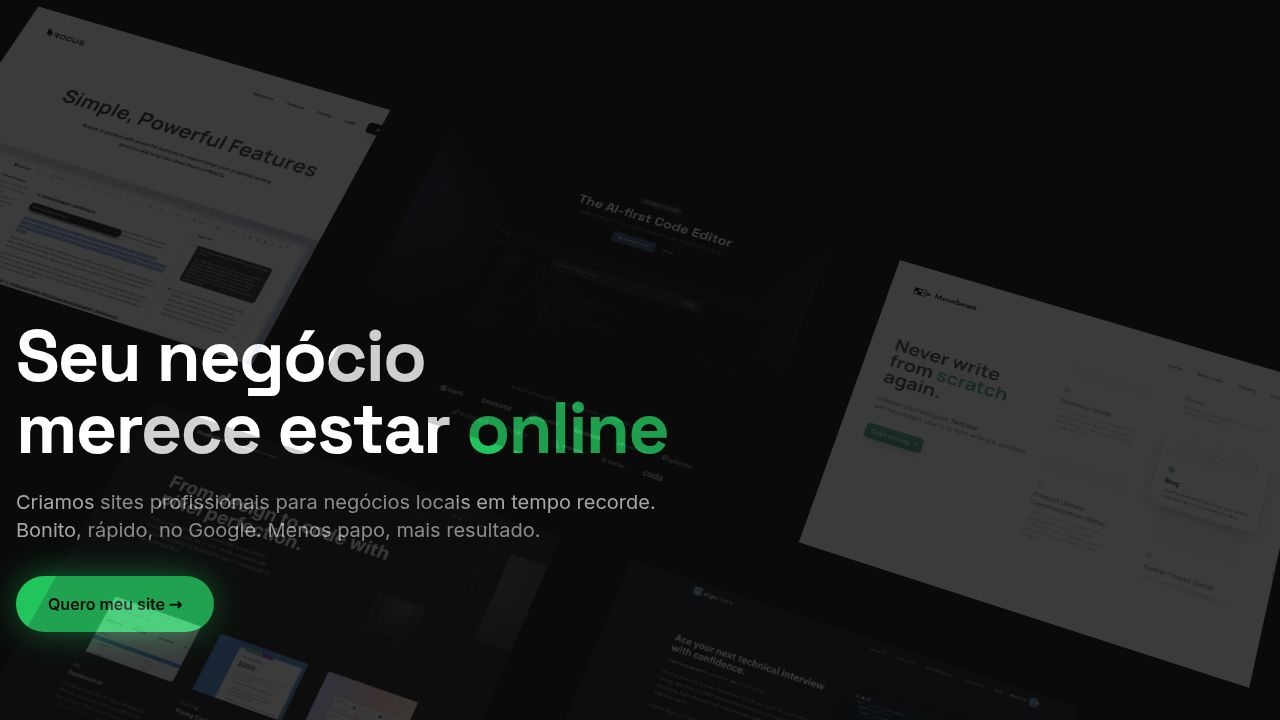
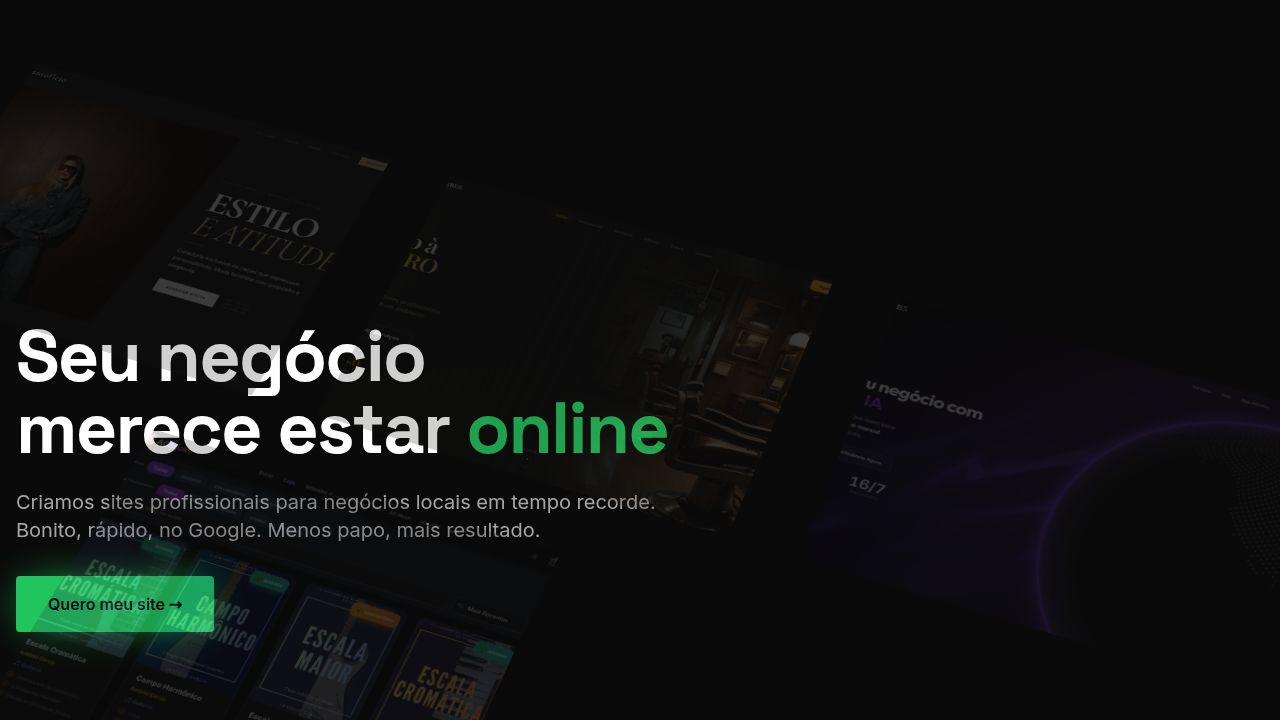
Center hero images and simplify case carousel display
Update HeroParallax component to center images and Portfolio component to reduce carousel items and remove internal image descriptions. Reposition the Pricing section in the home page layout.

Replit-Commit-Author: Agent
Replit-Commit-Session-Id: 8bb3d7d0-edad-495b-b93e-6ee9996748e4
Replit-Commit-Checkpoint-Type: full_checkpoint
Replit-Commit-Event-Id: b6d71455-3e94-4048-9c66-b544ce696ac8
Replit-Commit-Screenshot-Url: https://storage.googleapis.com/screenshot-production-us-central1/bfa69074-021f-4ca3-9f4c-341e73838d18/8bb3d7d0-edad-495b-b93e-6ee9996748e4/GnuSjnN
Replit-Helium-Checkpoint-Created: true

diff --git a/artifacts/ag-labs/src/components/Portfolio.tsx b/artifacts/ag-labs/src/components/Portfolio.tsx
@@ -13,7 +13,6 @@ const cases = [
     sliderName: 'agente-ia',
     tag: 'IA / SaaS',
     title: 'Agente de IA Consultivo',
-    desc: 'Plataforma com agente de IA que responde dúvidas, qualifica leads e agenda reuniões automaticamente — 24h por dia, sem intervenção humana.',
     result: '98% de resolução automática',
     link: 'https://rag.aglabs.api.br/',
     img: `${base}agente%20ia.png`,
@@ -22,7 +21,6 @@ const cases = [
     sliderName: 'barber-pro',
     tag: 'SaaS B2B',
     title: 'Barber Pro',
-    desc: 'Plataforma SaaS para barbearias com agendamento online, fila de espera, gestão de clientes e painel de relatórios. Escalável para franquias.',
     result: '47 barbearias ativas',
     link: 'https://barber.aglabs.ia.br/',
     img: `${base}barber%20pro.png`,
@@ -31,7 +29,6 @@ const cases = [
     sliderName: 'boutique',
     tag: 'E-commerce',
     title: 'Boutique Santo Ofício',
-    desc: 'Loja de roupas premium com lookbook interativo, filtros por coleção e checkout com integração de pagamento. Experiência mobile-first.',
     result: '+85% conversão mobile',
     link: 'https://santoficio-rv.pages.dev/',
     img: `${base}boutique%20de%20roupas.png`,
@@ -40,25 +37,14 @@ const cases = [
     sliderName: 'nutri',
     tag: 'Landing Page',
     title: 'LP Gabi Nutri',
-    desc: 'Página de captação para nutricionista com foco em emagrecimento. Copy persuasiva, depoimentos reais e formulário de agendamento integrado.',
     result: '+340% de leads em 30 dias',
     link: 'https://gabinutri.com.br/',
     img: `${base}lp%20nutri.png`,
   },
   {
-    sliderName: 'ag-app',
-    tag: 'Web App',
-    title: 'AG Labs — App',
-    desc: 'Dashboard completo para gestão de projetos, clientes e entregas da agência. Interface limpa com autenticação, notificações e relatórios.',
-    result: 'Gestão centralizada de projetos',
-    link: 'https://app.agmusic.cloud/',
-    img: `${base}app%20ag%20labs.png`,
-  },
-  {
     sliderName: 'agbooks',
     tag: 'E-commerce',
     title: 'AG Books',
-    desc: 'Loja de ebooks digitais com checkout integrado, área de membros protegida por login e entrega automática por e-mail após pagamento.',
     result: 'R$ 18k em vendas no 1º mês',
     link: 'https://loja.agmusic.cloud/',
     img: `${base}agbooks.png`,
@@ -67,7 +53,6 @@ const cases = [
     sliderName: 'aqua-nature',
     tag: 'E-commerce',
     title: 'Aqua Nature',
-    desc: 'Loja de produtos naturais e cosméticos com identidade visual premium, páginas de produto detalhadas e integração com marketplace.',
     result: '+60% no ticket médio',
     link: 'https://aqua-nature-rv.pages.dev/',
     img: `${base}psicnas%20naturais.png`,
@@ -76,7 +61,6 @@ const cases = [
     sliderName: 'lp-barber',
     tag: 'Landing Page',
     title: 'LP Alcateia Barber',
-    desc: 'Landing page de alta conversão para barbearia premium com galeria de cortes, sistema de agendamento e prova social com Google Reviews.',
     result: '3x mais agendamentos',
     link: 'https://alcateia-rv.pages.dev/',
     img: `${base}lp%20barber.png`,
@@ -85,46 +69,9 @@ const cases = [
     sliderName: 'ag-plataforma',
     tag: 'Web App',
     title: 'AG Labs — Plataforma IA',
-    desc: 'Hub centralizado de agentes de IA, automações e integrações. Interface para criação, monitoramento e gerenciamento de fluxos inteligentes.',
     result: 'Automações 24/7 ativas',
     link: 'https://rag.aglabs.api.br/app',
     img: `${base}ag%20labs%202.png`,
-  },
-  {
-    sliderName: 'ag-music',
-    tag: 'Site Institucional',
-    title: 'AG Music',
-    desc: 'Plataforma institucional para artistas independentes com player integrado, blog, agenda de shows e área de fãs exclusiva.',
-    result: '50k streams/mês',
-    link: 'https://agmusic.cloud/',
-    img: `${base}ag%20labs.png`,
-  },
-  {
-    sliderName: 'canyon',
-    tag: 'Template',
-    title: 'Canyon — Template Premium',
-    desc: 'Template de site para negócios ao ar livre, ecoturismo e aventura. Design imersivo com parallax, galeria de fotos e formulário de reserva.',
-    result: 'Entrega em 48h',
-    link: '#',
-    img: `${base}hero%20canyon.png`,
-  },
-  {
-    sliderName: 'business',
-    tag: 'Template',
-    title: 'Business Simples',
-    desc: 'Template clean e profissional para empresas e prestadores de serviço. Rápido de publicar e fácil de editar. Inclui domínio e hospedagem.',
-    result: 'Entrega em 48h',
-    link: '#',
-    img: `${base}busines%20simples.png`,
-  },
-  {
-    sliderName: 'templates',
-    tag: 'Templates',
-    title: 'Pack de Templates',
-    desc: 'Coleção de templates prontos para negócios locais — barbearia, restaurante, clínica, advogado e mais. Personalizados com sua marca em 48h.',
-    result: '+200 negócios atendidos',
-    link: '#',
-    img: `${base}templates%202.png`,
   },
 ];
 
@@ -146,50 +93,44 @@ export function Portfolio() {
           <SliderContent>
             {cases.map((item) => (
               <SliderWrapper key={item.sliderName} value={item.sliderName}>
-                <div className="relative rounded-xl overflow-hidden w-full" style={{ height: '480px' }}>
+                <div className="relative rounded-xl overflow-hidden w-full" style={{ height: '500px' }}>
                   <img
                     src={item.img}
                     alt={item.title}
                     className="w-full h-full object-cover object-top"
                   />
-                  <div className="absolute inset-0 bg-gradient-to-t from-black/85 via-black/20 to-transparent" />
-                  <div className="absolute bottom-0 left-0 p-8">
-                    <span className="inline-block bg-primary/20 border border-primary/40 text-primary text-xs font-bold uppercase tracking-widest px-3 py-1 rounded mb-3">
-                      {item.tag}
-                    </span>
-                    <h3 className="text-2xl md:text-4xl font-black text-white mb-2">{item.title}</h3>
-                    <p className="text-white/70 text-sm md:text-base max-w-lg">{item.desc}</p>
-                    <div className="mt-4 flex items-center gap-4 flex-wrap">
-                      <div className="inline-flex items-center gap-2 bg-primary/10 border border-primary/30 rounded px-4 py-2">
-                        <span className="w-2 h-2 rounded-full bg-primary animate-pulse" />
+                  <div className="absolute inset-0 bg-gradient-to-t from-black/70 via-transparent to-transparent" />
+                  <div className="absolute bottom-0 left-0 right-0 p-6 flex items-end justify-between">
+                    <div>
+                      <h3 className="text-xl md:text-2xl font-black text-white">{item.title}</h3>
+                      <div className="mt-2 inline-flex items-center gap-2">
+                        <span className="w-1.5 h-1.5 rounded-full bg-primary animate-pulse" />
                         <span className="text-primary font-bold text-sm">{item.result}</span>
                       </div>
-                      {item.link !== '#' && (
-                        <a
-                          href={item.link}
-                          target="_blank"
-                          rel="noopener noreferrer"
-                          className="inline-flex items-center gap-2 text-white/60 hover:text-white text-sm font-medium transition-colors"
-                        >
-                          Ver projeto →
-                        </a>
-                      )}
                     </div>
+                    <a
+                      href={item.link}
+                      target="_blank"
+                      rel="noopener noreferrer"
+                      className="shrink-0 ml-4 inline-flex items-center gap-1.5 bg-white/10 hover:bg-white/20 border border-white/20 hover:border-white/40 backdrop-blur-sm text-white text-sm font-semibold px-4 py-2 rounded-lg transition-all"
+                    >
+                      Ver projeto →
+                    </a>
                   </div>
                 </div>
               </SliderWrapper>
             ))}
           </SliderContent>
 
-          <SliderBtnGroup className="mt-4 bg-card/60 border border-border/50 backdrop-blur-md overflow-hidden grid grid-cols-4 md:grid-cols-7 rounded-lg">
+          <SliderBtnGroup className="mt-3 bg-card/60 border border-border/50 backdrop-blur-md overflow-hidden grid grid-cols-4 md:grid-cols-8 rounded-lg">
             {cases.map((item) => (
               <SliderBtn
                 key={item.sliderName}
                 value={item.sliderName}
-                className="text-left cursor-pointer p-3 border-r border-b border-border/30 transition-colors hover:bg-white/5"
-                progressBarClass="bg-primary/20 h-full top-0"
+                className="text-left cursor-pointer p-3 border-r border-b border-border/30 transition-colors hover:bg-white/5 last:border-r-0"
+                progressBarClass="bg-primary/25 h-full top-0"
               >
-                <span className="relative inline-block text-[9px] font-bold uppercase tracking-widest text-primary bg-primary/10 border border-primary/30 px-2 py-0.5 rounded mb-1.5">
+                <span className="block text-[9px] font-bold uppercase tracking-widest text-primary mb-1">
                   {item.tag}
                 </span>
                 <p className="text-[11px] font-semibold text-foreground/80 line-clamp-2 leading-snug">

diff --git a/artifacts/ag-labs/src/components/HeroParallax.tsx b/artifacts/ag-labs/src/components/HeroParallax.tsx
@@ -137,7 +137,7 @@ export const ProductCard = ({
           src={product.thumbnail}
           height="600"
           width="600"
-          className="object-cover object-left-top absolute h-full w-full inset-0"
+          className="object-cover object-center absolute h-full w-full inset-0"
           alt={product.title}
         />
       </a>

diff --git a/artifacts/ag-labs/src/pages/home.tsx b/artifacts/ag-labs/src/pages/home.tsx
@@ -156,9 +156,9 @@ export default function Home() {
       <div className="relative z-10 bg-background">
         <HeroParallax />
         <Portfolio />
-        <Pricing />
         <HowItWorks />
         <SocialProof />
+        <Pricing />
         <FAQ />
         <CTAFinal />
       </div>
